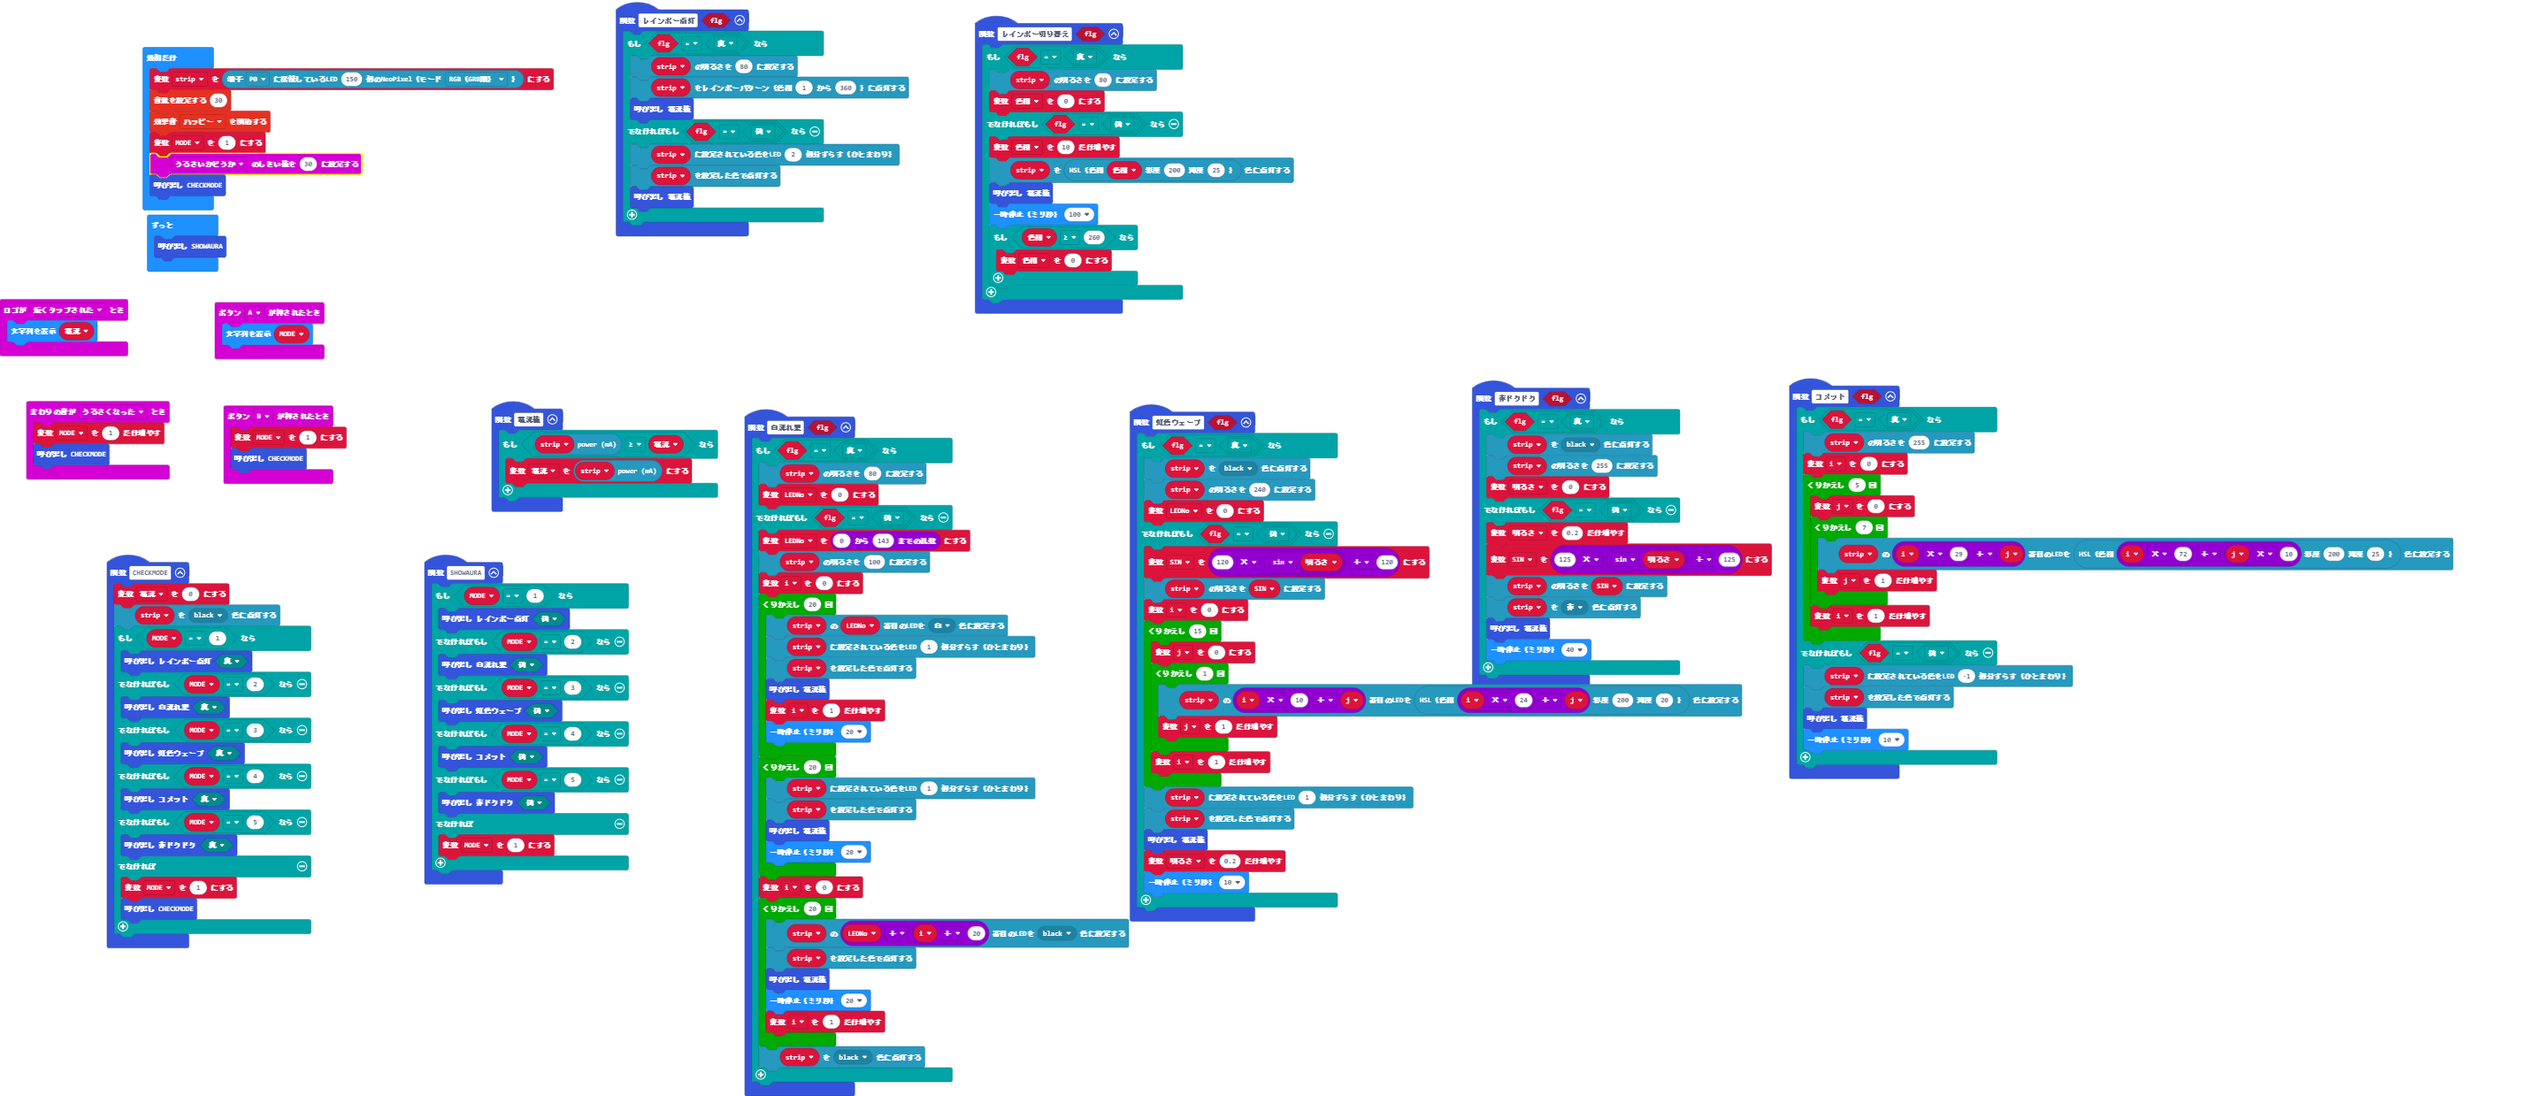
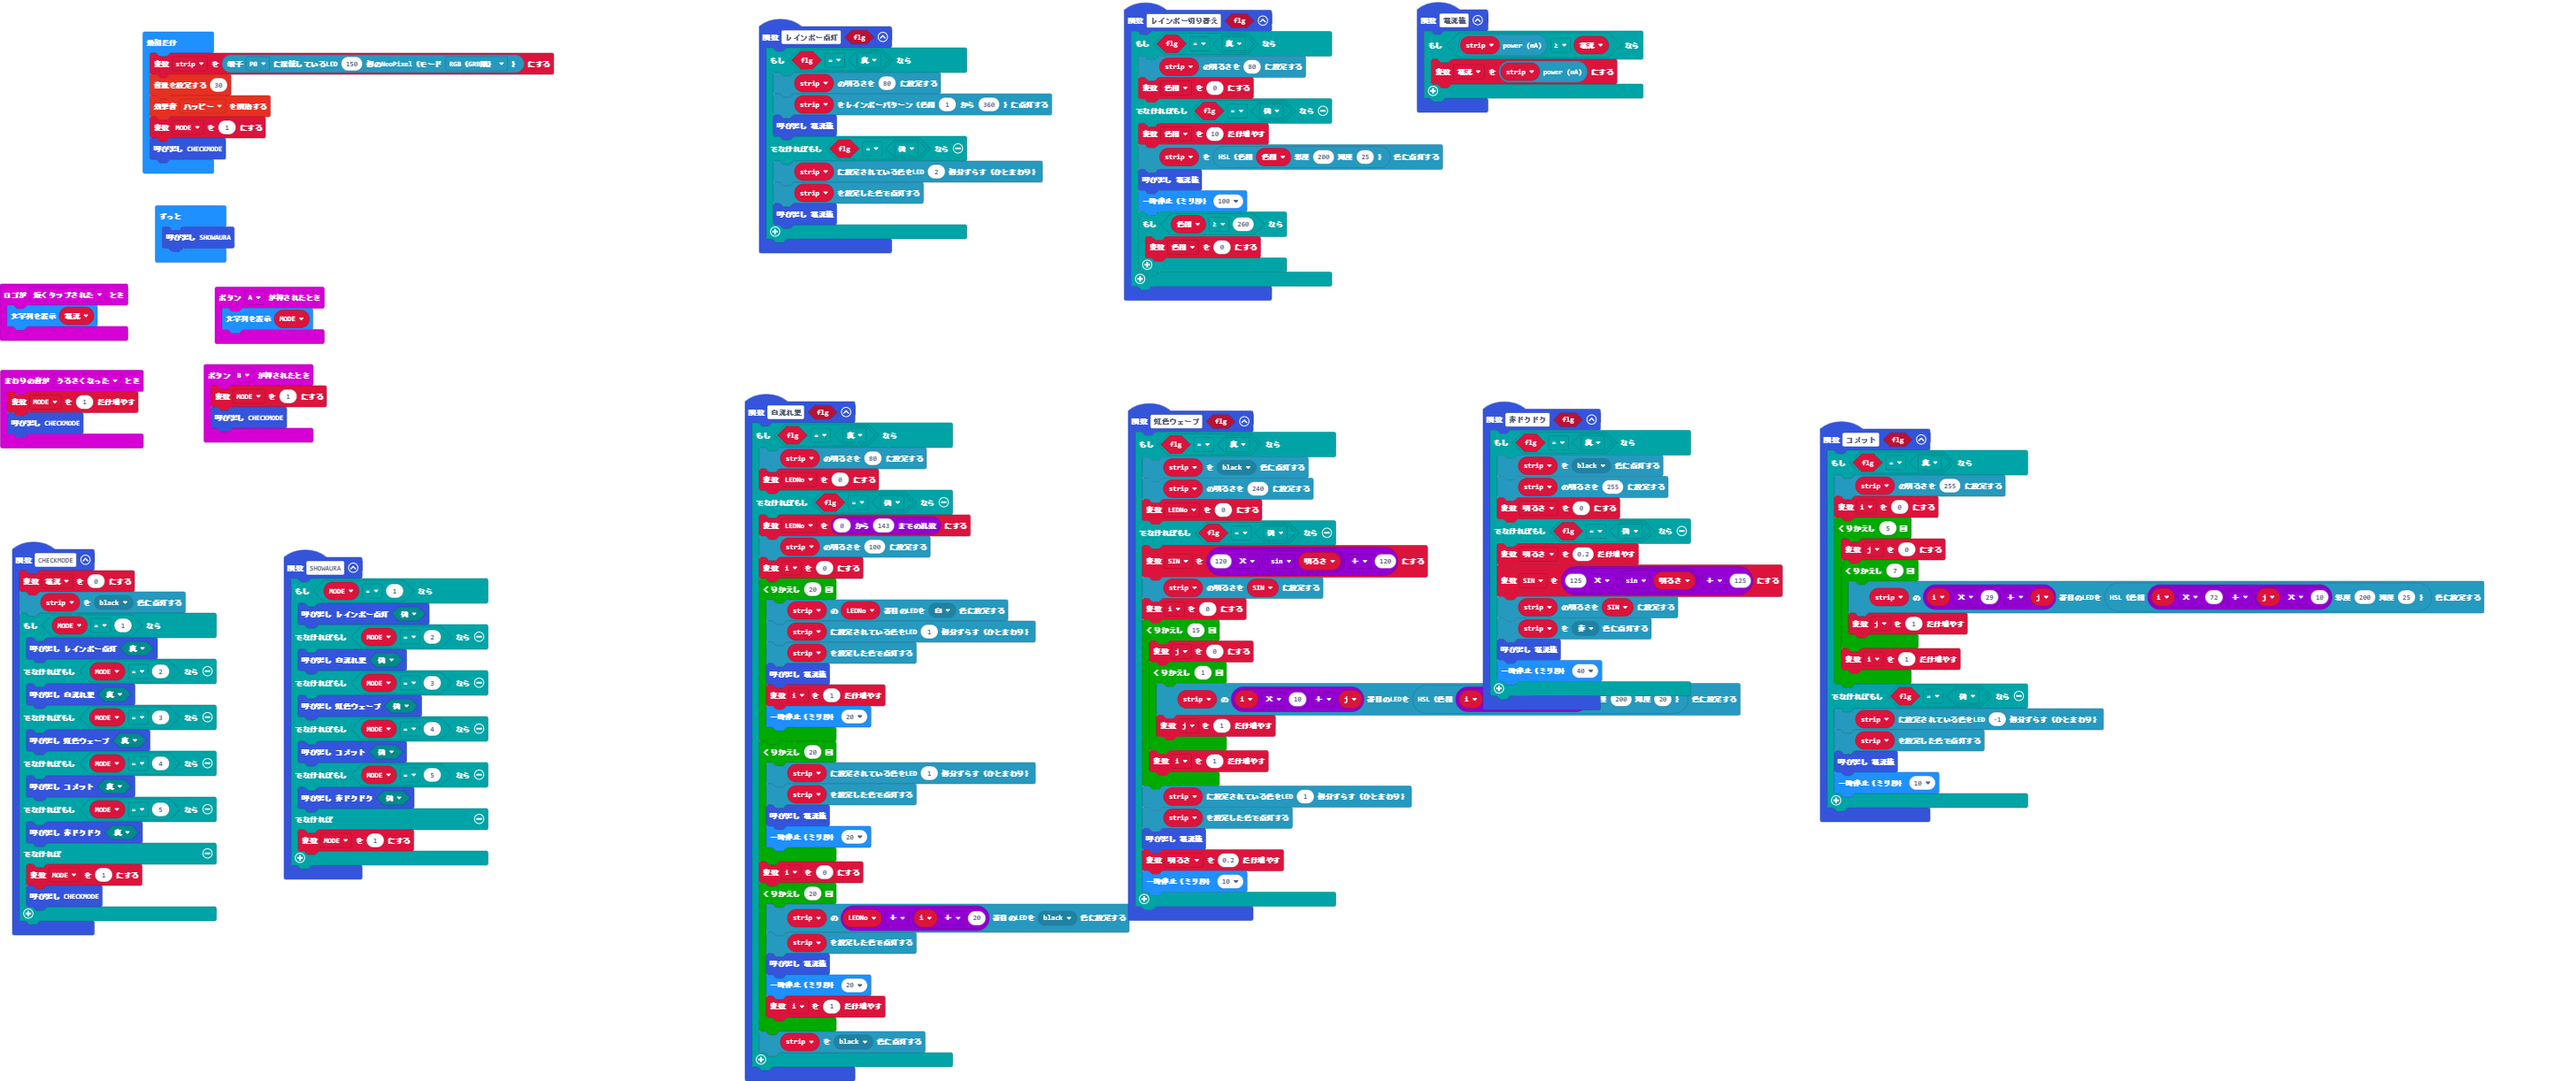
更新 main.blocks, main.ts

Changed region(s): [[0.1856, 0.3421, 0.9899, 1.0], [0.0, 0.0, 0.6496, 0.4664], [0.0, 0.4975, 0.2475, 0.8707]]

diff --git a/main.ts b/main.ts
@@ -178,7 +178,6 @@ strip = neopixel.create(DigitalPin.P0, 150, NeoPixelMode.RGB)
 music.setVolume(30)
 soundExpression.happy.play()
 MODE = 1
-input.setSoundThreshold(SoundThreshold.Loud, 30)
 CHECKMODE()
 basic.forever(function () {
     SHOWAURA()
